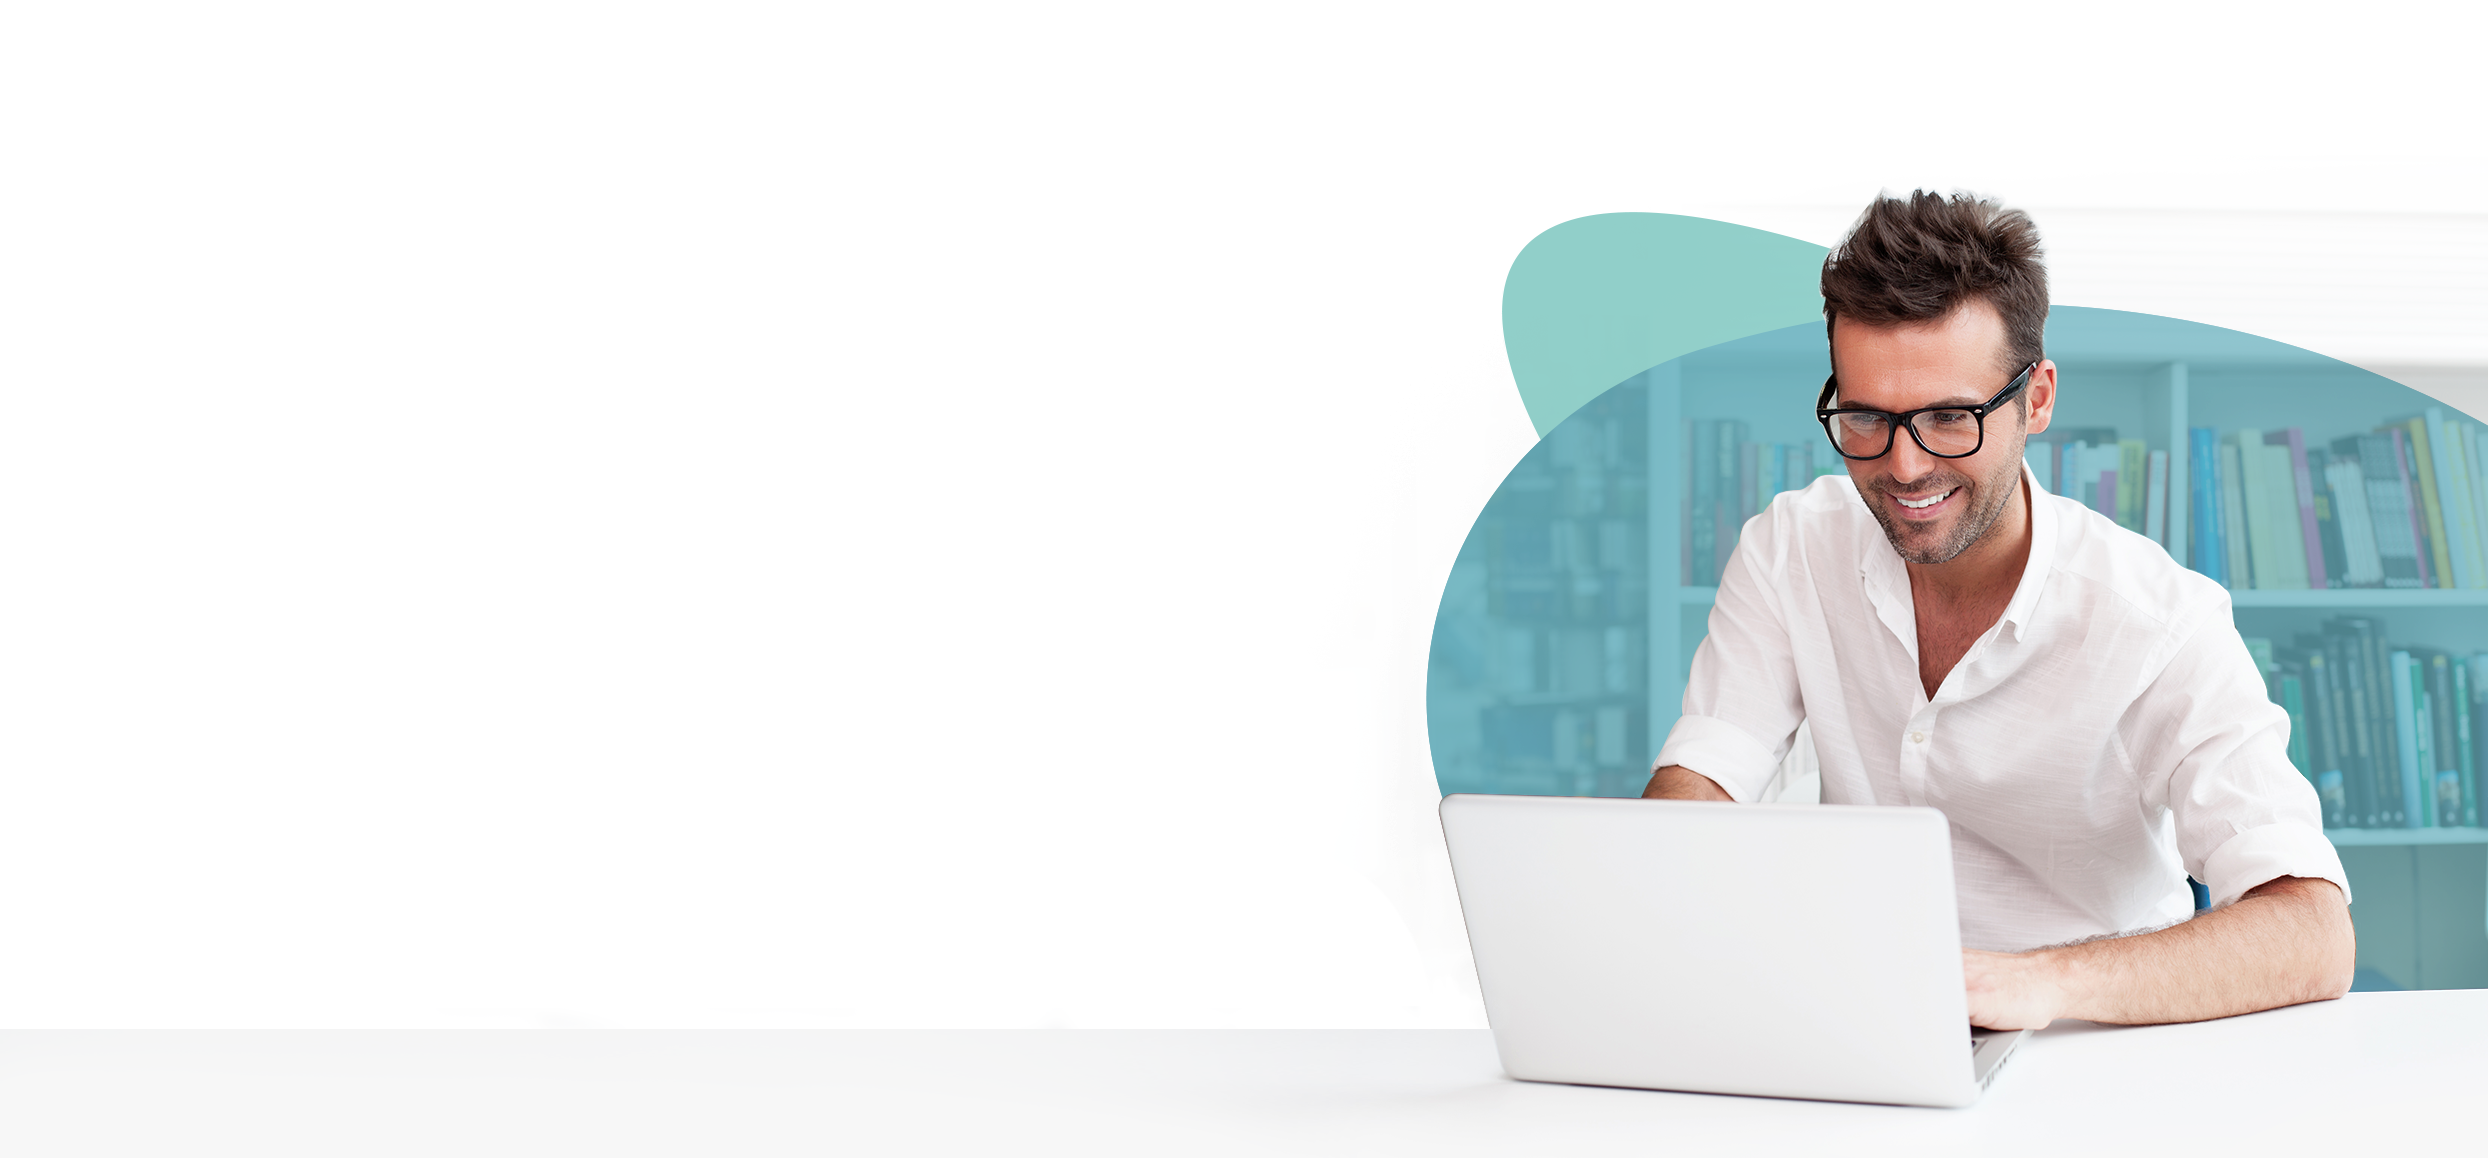
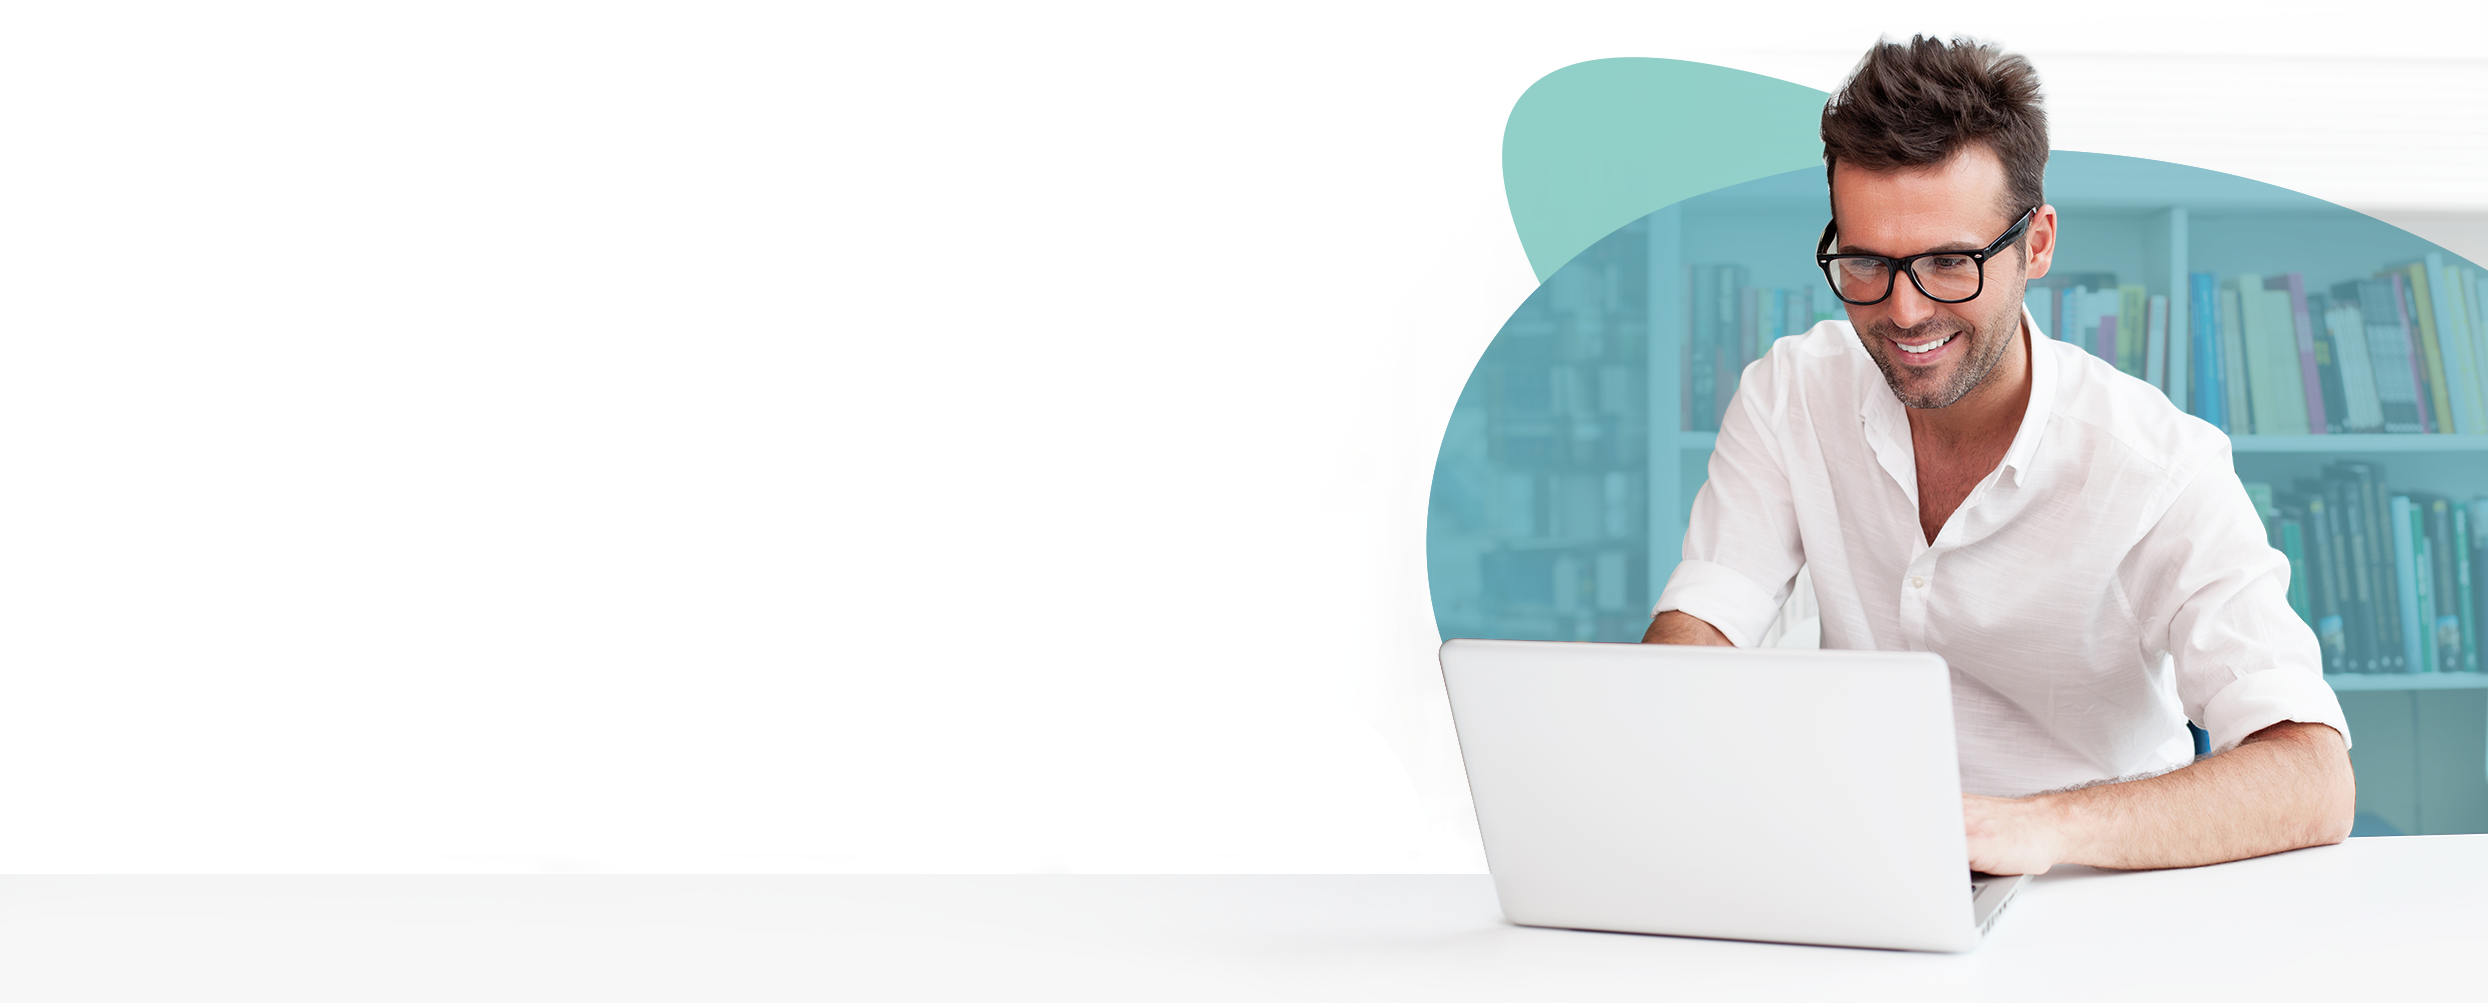
Fix responsive header

Changed region(s): [[0.5571, 0.0309, 1.0, 0.9581], [0.588, 0.7727, 0.619, 0.8345]]

diff --git a/index.html b/index.html
@@ -11,38 +11,41 @@
 
 <body>
     <!-- Hero and Navigation -->
-    <header id="landing">
-        <div id="header">
+    <header class="header">
+        <div id="header-div">
             <div class="wrapper">
-                <div id="logo"><a href="#"><img src="/images/tsd-logo.png"></a></div>
-                <nav id="main-menu">
-                    <ul id="menu">
-                        <li><a href="#what-motivates" class="nav-links">What Motivates Us?</a></li>
-                        <li><a href="#what-we-do" class="nav-links">What We Do Today</a></li>
-                        <li><a href="#where-were-heading" class="nav-links">Where We're Heading</a></li>
-                        <li><a href="#case-studies" class="nav-links">Case Studies</a></li>
-                        <li><a href="#join-the-team" class="secondary-btn"  class="nav-links">Join the Team</a></li>
-                    </ul>
+                <a href="#" class="logo"><img src="/images/tsd-logo.png"></a>
+                <input class="menu-btn" type="checkbox" id="menu-btn" />
+                <label class="menu-icon" for="menu-btn"><span class="navicon"></span></label>
+                <ul class="menu">
+                    <li><a href="#what-motivates" class="nav-links">What Motivates Us?</a></li>
+                    <li><a href="#what-we-do" class="nav-links">What We Do Today</a></li>
+                    <li><a href="#where-were-heading" class="nav-links">Where We're Heading</a></li>
+                    <li><a href="#case-studies" class="nav-links">Case Studies</a></li>
+                    <li><a href="#join-the-team" class="secondary-btn" class="nav-links">Join the Team</a></li>
+                </ul>
                 </nav>
             </div>
         </div>
 
-        <div id="hero">
-            <div class="wrapper">
-                <h1>Unapologetically Relentless.<br>
-                    Designed for Scale.<br>
-                    Focused on Personal Growth.<br>
-                </h1>
-
-                <p>Let’s together engineer a new gold standard<br> for remote working. Let’s get rid of outmoded<br>
-                    ideas and
-                    empower you to take your abilities to<br> an entirely new level.</p>
-
-                <a href="https://jobs.trulyscaled.com/" class="primary-btn">JOIN US!</a>
-            </div>
-        </div>
-
     </header>
+
+    <div id="hero">
+        <div class="wrapper">
+            <h1>Unapologetically Relentless.<br>
+                Designed for Scale.<br>
+                Focused on Personal Growth.<br>
+            </h1>
+
+            <p>Let’s together engineer a new gold standard<br> for remote working. Let’s get rid of outmoded<br>
+                ideas and
+                empower you to take your abilities to<br> an entirely new level.</p>
+
+            <a href="https://jobs.trulyscaled.com/" class="primary-btn">JOIN US!</a>
+        </div>
+    </div>
+
+
 
     <!-- What Motivates Us -->
 
@@ -145,19 +148,22 @@
 
             <div class="grid">
 
-                <div class="article"><a href="/images/0-to-8800000-Monthly-Pageviews-in-Under-7-Months.pdf"><img src="/images/pdf1.png" alt="Article: 8.8 Million Pageviews/Month in 7 Months"></a>
+                <div class="article"><a href="/images/0-to-8800000-Monthly-Pageviews-in-Under-7-Months.pdf"><img
+                            src="/images/pdf1.png" alt="Article: 8.8 Million Pageviews/Month in 7 Months"></a>
                     <p>8.8 Million Pageviews/Month in 7 Months</p>
                 </div>
-                <div class="article"><a href="/images/101-Percent-Ad-eCPM-Boost-in-4-Weeks.pdf"><img src="/images/pdf2.png" alt="Article: 101% Revenue Boost in 4 Weeks"></a>
+                <div class="article"><a href="/images/101-Percent-Ad-eCPM-Boost-in-4-Weeks.pdf"><img
+                            src="/images/pdf2.png" alt="Article: 101% Revenue Boost in 4 Weeks"></a>
                     <p>101% Revenue Boost in 4 Weeks</p>
                 </div>
-                <div class="article"><a href="/images/0-to-100000-Engaged-Facebook-Fans-in-7-Weeks.pdf"><img src="/images/pdf3.png" alt="Article: 100k Engaged Facebook Fans in 7 Weeks"></a>
+                <div class="article"><a href="/images/0-to-100000-Engaged-Facebook-Fans-in-7-Weeks.pdf"><img
+                            src="/images/pdf3.png" alt="Article: 100k Engaged Facebook Fans in 7 Weeks"></a>
                     <p>100k Engaged Facebook Fans in 7 Weeks</p>
                 </div>
-                </div>
             </div>
-
         </div>
+
+    </div>
 
     </div>
 
@@ -202,7 +208,7 @@
                 <div class="headshot"><img src="/images/headshot/vielle.png" alt="Team Profile: Vielle">
                     <p>Vielle</p>
                 </div>
-                <div class="headshot"><img src="/images/headshot-placeholder.png" alt="Team Profile: Milan">
+                <div class="headshot"><img src="/images/headshot/milan.png" alt="Team Profile: Milan">
                     <p>Milan</p>
                 </div>
 
@@ -256,7 +262,7 @@
 
     </footer>
 
-    
+
 
 </body>
 

diff --git a/css/style.css b/css/style.css
@@ -6,7 +6,7 @@ html {
 
 body {
     background-color: #fff;
-    font-family: 'Montserrat',Arial, Helvetica, sans-serif;
+    font-family: 'Montserrat', Arial, Helvetica, sans-serif;
     margin: 0;
     padding: 0;
     color: #475059;
@@ -30,18 +30,6 @@ a.primary-btn {
     font-size: 25px;
     padding: 15px 70px;
     border-radius: 18px;
-}
-
-a.secondary-btn {
-    color: #fff !important;
-    background-color: #1e5670;
-    padding: 10px 24px;
-    border-radius: 10px;
-    transition: all 0.5s ease;
-}
-
-a.secondary-btn:hover {
-    background-color: #4198B9;
 }
 
 .font-blue {
@@ -81,60 +69,129 @@ p {
     display: flex;
 }
 
-#where-were-heading .wrapper,#case-studies .wrapper,#team-members .wrapper {
+#where-were-heading .wrapper,
+#case-studies .wrapper,
+#team-members .wrapper {
     padding: 70px 0;
 }
 
+/* Header and Hamburger Menu */
 
-/* Header */
-
-header {
+#header-div {
     background-color: #fff;
-    min-height: 70px;
+    width: 100%;
+    z-index: 3;
     border-top: 5px solid #4198b9;
+    padding-top: 20px;
 }
 
-#header .wrapper {
-    padding-top: 30px;
-}
-
-header #logo {
-    float: left;
-}
-
-header nav {
-    float: right;
-    margin-top: 10px;
-}
-
-#main-menu ul {
-    list-style-type: none;
-    padding: 0;
+.header ul {
     margin: 0;
+    padding: 0;
+    list-style: none;
+    overflow: hidden;
+    background-color: #fff;
 }
 
-#main-menu li {
-    display: inline-block;
-}
-
-#main-menu li a {
-    text-decoration: none;
-    margin: auto 15px;
+.header li a {
+    display: block;
     font-weight: 700;
     font-size: 14px;
     color: #475059;
     transition: 0.5s;
+    text-decoration: none;
+    margin: 10px;
 }
 
-#main-menu li a:hover {
+.header li a:hover {
     color: #4198b9;
 }
 
-#landing {
+.header .logo {
+    display: block;
+    float: left;
+    font-size: 2em;
+    padding: 10px 0;
+}
+
+.header .menu {
+    clear: both;
+    max-height: 0;
+    transition: max-height .2s ease-out;
+}
+
+/* Menu Icon */
+
+.header .menu-icon {
+    cursor: pointer;
+    display: inline-block;
+    float: right;
+    padding: 28px 20px;
+    position: relative;
+    user-select: none;
+}
+
+.header .menu-icon .navicon {
+    background: #333;
+    display: block;
+    height: 2px;
+    position: relative;
+    transition: background .2s ease-out;
+    width: 18px;
+}
+
+.header .menu-icon .navicon:before,
+.header .menu-icon .navicon:after {
+    background: #333;
+    content: '';
+    display: block;
+    height: 100%;
+    position: absolute;
+    transition: all .2s ease-out;
+    width: 100%;
+}
+
+.header .menu-icon .navicon:before {
+    top: 5px;
+}
+
+.header .menu-icon .navicon:after {
+    top: -5px;
+}
+
+/* Menu Button */
+
+.header .menu-btn {
+    display: none;
+}
+
+.header .menu-btn:checked~.menu {
+    max-height: 240px;
+}
+
+.header .menu-btn:checked~.menu-icon .navicon {
+    background: transparent;
+}
+
+.header .menu-btn:checked~.menu-icon .navicon:before {
+    transform: rotate(-45deg);
+}
+
+.header .menu-btn:checked~.menu-icon .navicon:after {
+    transform: rotate(45deg);
+}
+
+.header .menu-btn:checked~.menu-icon:not(.steps) .navicon:before,
+.header .menu-btn:checked~.menu-icon:not(.steps) .navicon:after {
+    top: 0;
+}
+
+#hero {
     background-image: url('/images/hero-1.png');
     background-size: cover;
     background-position: center right;
-    height: 100vh;
+    margin-top: -20px;
+    height: 90vh;
 }
 
 #hero .wrapper {
@@ -200,7 +257,6 @@ header nav {
     background: linear-gradient(#4198b9, #6bb3c0);
     text-align: center;
 }
-
 
 #where-were-heading h2,
 #where-were-heading p {
@@ -289,3 +345,41 @@ footer p {
     color: #fff;
 }
 
+@media screen and (max-width: 768px) {
+
+
+} 
+    
+@media (min-width: 769px) {
+    .header li {
+        float: left;
+    }
+
+    .header li a {
+        padding: 8px 0;
+        margin: auto 17px;
+    }
+
+    .header .menu {
+        clear: none;
+        float: right;
+        max-height: none;
+        margin-top: 15px;
+    }
+
+    .header .menu-icon {
+        display: none;
+    }
+
+    .menu .secondary-btn {
+        color: #fff !important;
+        background-color: #1e5670;
+        padding: 8px 24px;
+        border-radius: 10px;
+        transition: all 0.5s ease;
+    }
+
+    a.secondary-btn:hover {
+        background-color: #4198B9;
+    }
+}
